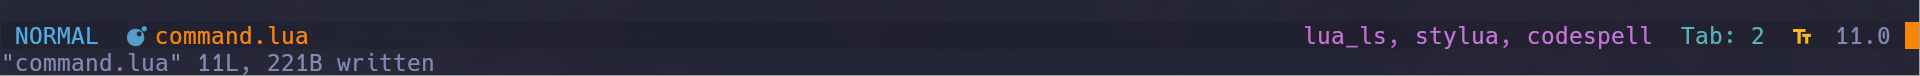
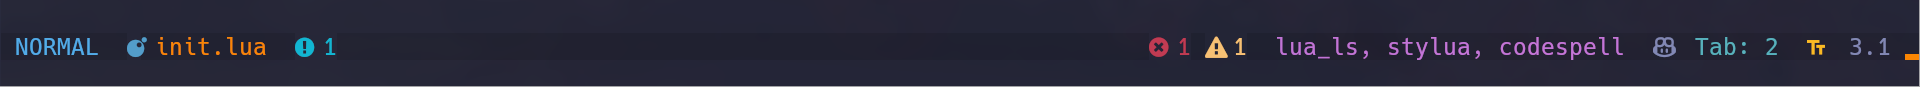
docs: update README

diff --git a/README.md b/README.md
@@ -71,9 +71,10 @@ any idea to create a new component, please open an issue or pull request.
                     "mode",
                     "filename",
                     "git-diff",
-                    "diagnostics",
                     "%=",
+                    "diagnostics",
                     "lsps-formatters",
+                    "copilot",
                     "indent",
                     "encoding",
                     "pos-cursor",
@@ -201,21 +202,21 @@ Note: the default component must be a string
 
 We provide you some default component:
 
-| **Component**         | **Description**                       |
-| --------------------- | ------------------------------------- |
-| `datetime`            | Show datetime                         |
-| `mode`                | Show current mode                     |
-| `filename`            | Show current filename                 |
-| `git-diff`            | Show git diff                         |
-| `diagnostics`         | Show diagnostics                      |
-| `lsps-formatters`     | Show lsps, formatters                 |
-| `indent`              | Show indent                           |
-| `encoding`            | Show encoding                         |
-| `pos-cursor`          | Show position of cursor               |
-| `pos-cursor-progress` | Show position of cursor with progress |
+| **Component**         | **Description**                                        |
+| --------------------- | ------------------------------------------------------ |
+| `datetime`            | Show datetime                                          |
+| `mode`                | Show current mode                                      |
+| `filename`            | Show current filename                                  |
+| `git-diff`            | Show git diff                                          |
+| `diagnostics`         | Show diagnostics                                       |
+| `lsps-formatters`     | Show lsps, formatters(support for null-ls and conform) |
+| `copilot`             | Show copilot status                                    |
+| `indent`              | Show indent                                            |
+| `encoding`            | Show encoding                                          |
+| `pos-cursor`          | Show position of cursor                                |
+| `pos-cursor-progress` | Show position of cursor with progress                  |
 
 ```lua
-
     require("sttusline").setup {
         -- 0 | 1 | 2 | 3
         -- recommended: 3
@@ -232,11 +233,11 @@ We provide you some default component:
         components = {
             -- "mode",
             -- "filename",
-            -- "datetime",
             -- "git-diff",
             -- "%=",
             -- "diagnostics",
             -- "lsps-formatters",
+            -- "copilot",
             -- "indent",
             -- "encoding",
             -- "pos-cursor",
@@ -457,6 +458,23 @@ indent.set_colors { fg = colors.cyan, bg = colors.bg }
 local lsps_formatters = require("sttusline.components.lsps-formatters")
 
 lsps_formatters.set_colors { fg = colors.magenta, bg = colors.bg }
+```
+
+- copilot
+
+```lua
+local copilot = require("sttusline.components.copilot")
+
+copilot.set_colors { fg = colors.yellow, bg = colors.bg }
+copilot.set_config {
+    icons = {
+        normal = "",
+        error = "",
+        warning = "",
+        inprogress = "",
+    },
+}
+
 ```
 
 - pos-cursor
